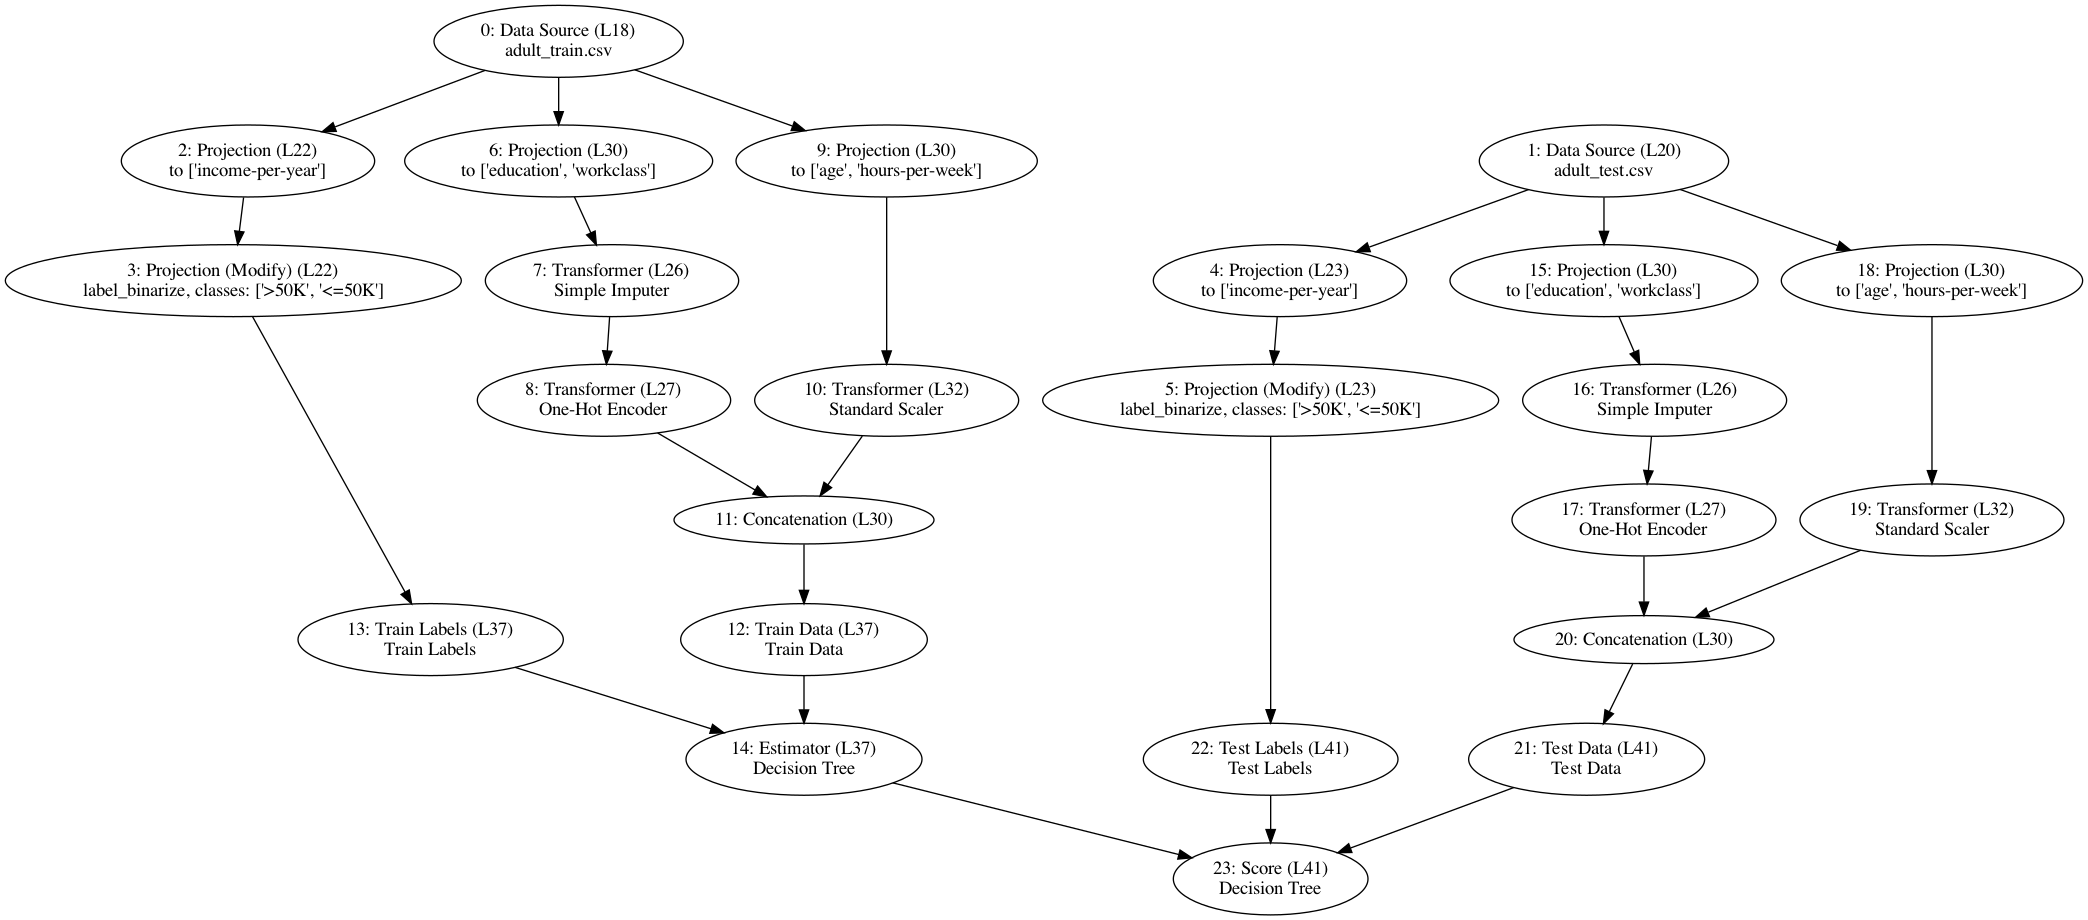
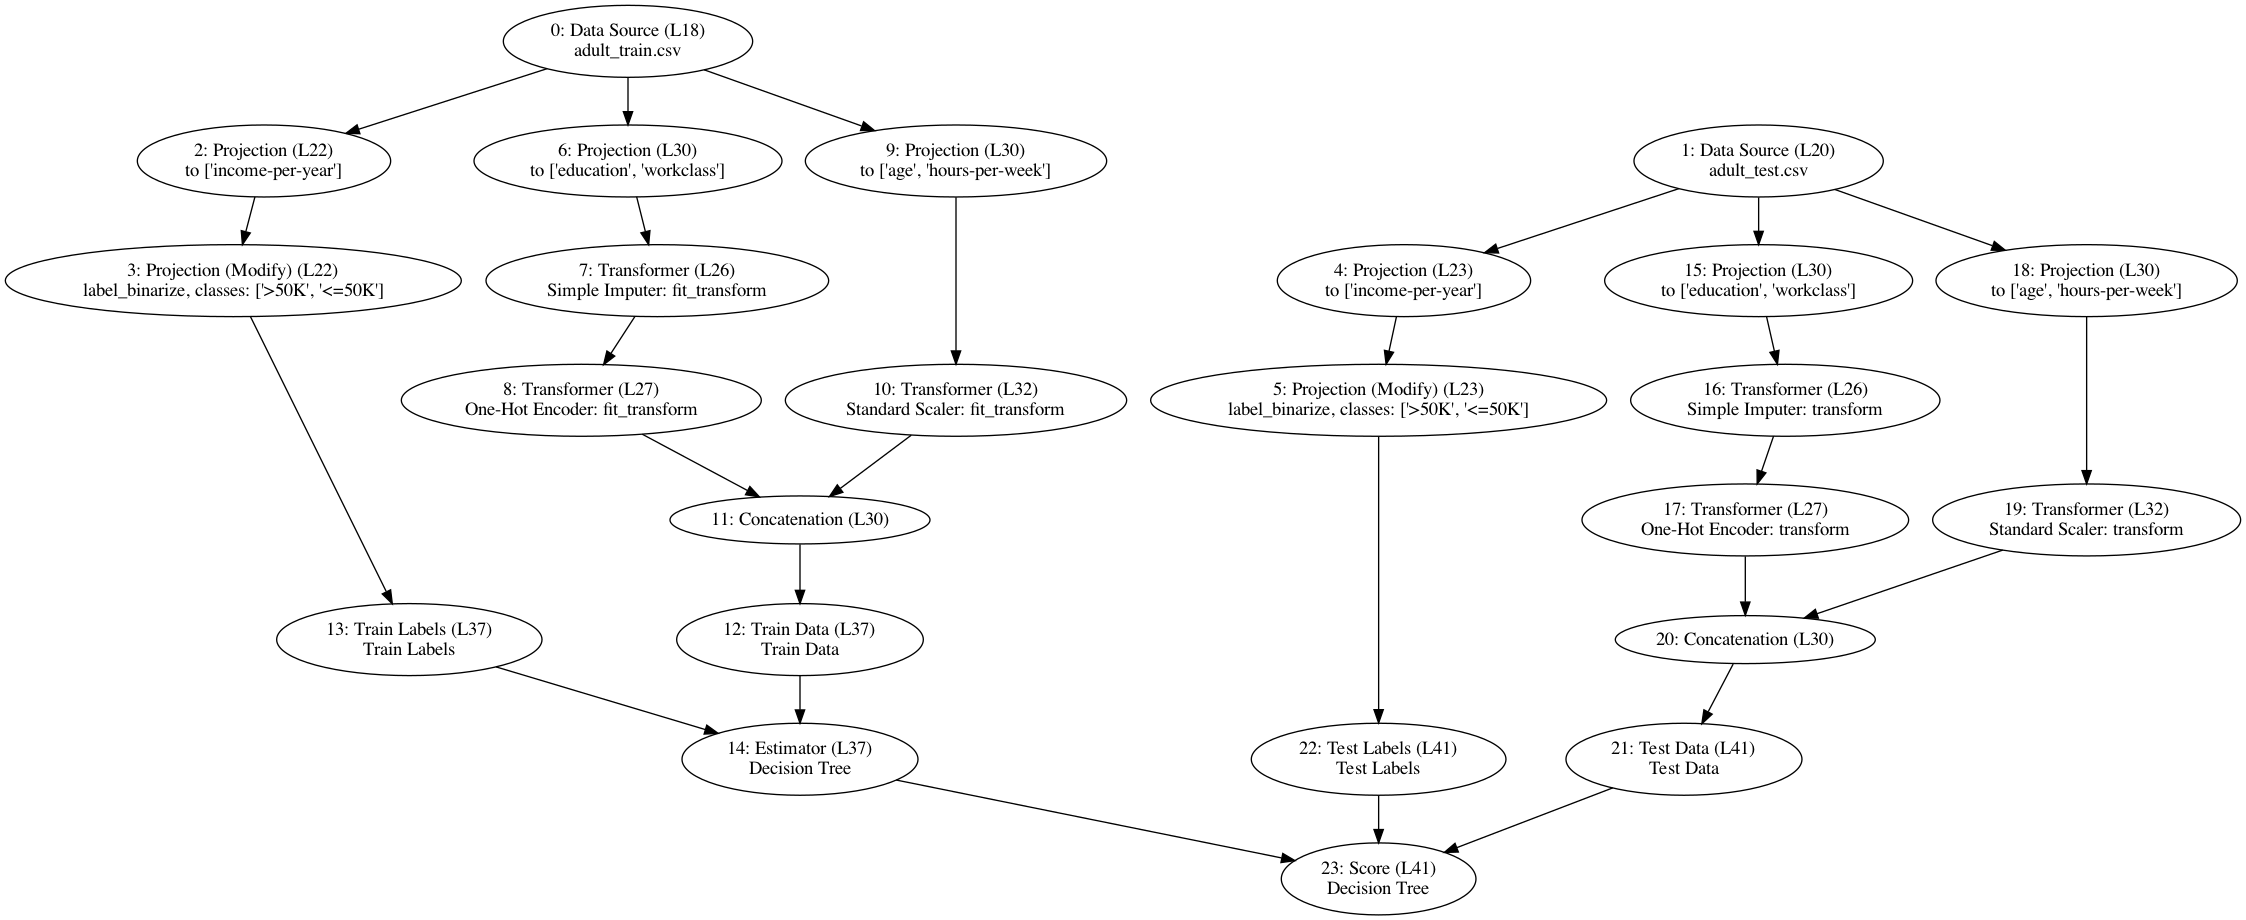
Polish

diff --git a/mlinspect/monkeypatching/_patch_statsmodels.py b/mlinspect/monkeypatching/_patch_statsmodels.py
@@ -9,16 +9,15 @@ from mlinspect import DagNode, BasicCodeLocation, DagNodeDetails
 from mlinspect.backends._pandas_backend import PandasBackend
 from mlinspect.backends._sklearn_backend import SklearnBackend
 from mlinspect.inspections._inspection_input import OperatorContext, FunctionInfo, OperatorType
-from mlinspect.instrumentation import _pipeline_executor
 from mlinspect.instrumentation._pipeline_executor import singleton
 from mlinspect.monkeypatching._monkey_patching_utils import execute_patched_func, add_dag_node, \
-    get_optional_code_info_or_none, get_input_info, execute_patched_func_no_op_id
+    get_optional_code_info_or_none, get_input_info, execute_patched_func_no_op_id, add_train_data_node, \
+    add_train_label_node
 
 
 @gorilla.patches(api)
 class StatsmodelApiPatching:
-    """ Patches for sklearn """
-
+    """ Patches for statsmodel """
     # pylint: disable=too-few-public-methods
 
     @gorilla.name('add_constant')
@@ -121,42 +120,13 @@ class StatsmodelsOlsPatching:
         function_info = FunctionInfo('statsmodel.api.OLS', 'fit')
 
         # Train data
-        input_info_train_data = get_input_info(self.data.exog,  # pylint: disable=no-member
-                                               self.mlinspect_caller_filename, self.mlinspect_lineno,
-                                               function_info, self.mlinspect_optional_code_reference,
-                                               self.mlinspect_optional_source_code)
-        train_data_op_id = _pipeline_executor.singleton.get_next_op_id()
-        operator_context = OperatorContext(OperatorType.TRAIN_DATA, function_info)
-        train_data_dag_node = DagNode(train_data_op_id,
-                                      BasicCodeLocation(self.mlinspect_caller_filename, self.mlinspect_lineno),
-                                      operator_context,
-                                      DagNodeDetails("Train Data", ["array"]),
-                                      get_optional_code_info_or_none(self.mlinspect_optional_code_reference,
-                                                                     self.mlinspect_optional_source_code))
-        input_infos = SklearnBackend.before_call(operator_context, [input_info_train_data.annotated_dfobject])
-        data_backend_result = SklearnBackend.after_call(operator_context,
-                                                        input_infos,
-                                                        self.data.exog)  # pylint: disable=no-member
-        add_dag_node(train_data_dag_node, [input_info_train_data.dag_node], data_backend_result)
-
-        # Train labels
-        operator_context = OperatorContext(OperatorType.TRAIN_LABELS, function_info)
-        input_info_train_labels = get_input_info(self.data.endog,  # pylint: disable=no-member
-                                                 self.mlinspect_caller_filename, self.mlinspect_lineno,
-                                                 function_info, self.mlinspect_optional_code_reference,
-                                                 self.mlinspect_optional_source_code)
-        train_label_op_id = _pipeline_executor.singleton.get_next_op_id()
-        train_labels_dag_node = DagNode(train_label_op_id,
-                                        BasicCodeLocation(self.mlinspect_caller_filename, self.mlinspect_lineno),
-                                        operator_context,
-                                        DagNodeDetails("Train Labels", ["array"]),
-                                        get_optional_code_info_or_none(self.mlinspect_optional_code_reference,
-                                                                       self.mlinspect_optional_source_code))
-        input_infos = SklearnBackend.before_call(operator_context, [input_info_train_labels.annotated_dfobject])
-        label_backend_result = SklearnBackend.after_call(operator_context,
-                                                         input_infos,
-                                                         self.data.endog)  # pylint: disable=no-member
-        add_dag_node(train_labels_dag_node, [input_info_train_labels.dag_node], label_backend_result)
+        # pylint: disable=no-member
+        data_backend_result, train_data_node, train_data_result = add_train_data_node(self,
+                                                                                      self.data.exog,
+                                                                                      function_info)
+        # pylint: disable=no-member
+        label_backend_result, train_labels_node, train_labels_result = add_train_label_node(self, self.data.endog,
+                                                                                            function_info)
 
         # Estimator
         operator_context = OperatorContext(OperatorType.ESTIMATOR, function_info)
@@ -173,5 +143,5 @@ class StatsmodelsOlsPatching:
                            DagNodeDetails("Decision Tree", []),
                            get_optional_code_info_or_none(self.mlinspect_optional_code_reference,
                                                           self.mlinspect_optional_source_code))
-        add_dag_node(dag_node, [train_data_dag_node, train_labels_dag_node], estimator_backend_result)
+        add_dag_node(dag_node, [train_data_node, train_labels_node], estimator_backend_result)
         return result

diff --git a/mlinspect/testing/_testing_helper_utils.py b/mlinspect/testing/_testing_helper_utils.py
@@ -88,7 +88,7 @@ def get_expected_dag_adult_easy(caller_filename: str, line_offset: int = 0, with
                                                 OperatorContext(OperatorType.TRANSFORMER,
                                                                 FunctionInfo('sklearn.preprocessing._encoders',
                                                                              'OneHotEncoder')),
-                                                DagNodeDetails('One-Hot Encoder', ['array']),
+                                                DagNodeDetails('One-Hot Encoder: fit_transform', ['array']),
                                                 OptionalCodeInfo(CodeReference(19 + line_offset, 20, 19 + line_offset,
                                                                                72),
                                                                  "preprocessing.OneHotEncoder(handle_unknown='ignore')")
@@ -98,7 +98,7 @@ def get_expected_dag_adult_easy(caller_filename: str, line_offset: int = 0, with
                                                 OperatorContext(OperatorType.TRANSFORMER,
                                                                 FunctionInfo('sklearn.preprocessing._data',
                                                                              'StandardScaler')),
-                                                DagNodeDetails('Standard Scaler', ['array']),
+                                                DagNodeDetails('Standard Scaler: fit_transform', ['array']),
                                                 OptionalCodeInfo(CodeReference(20 + line_offset, 16, 20 + line_offset,
                                                                                46),
                                                                  'preprocessing.StandardScaler()'))

diff --git a/test/demo/feature_overview/test_no_missing_embeddings.py b/test/demo/feature_overview/test_no_missing_embeddings.py
@@ -40,7 +40,7 @@ def test_no_missing_embeddings():
                 BasicCodeLocation('<string-source>', 5),
                 OperatorContext(OperatorType.TRANSFORMER,
                                 FunctionInfo('example_pipelines.healthcare.healthcare_utils', 'MyW2VTransformer')),
-                DagNodeDetails('Word2Vec', ['array']),
+                DagNodeDetails('Word2Vec: fit_transform', ['array']),
                 OptionalCodeInfo(CodeReference(5, 14, 5, 62), 'MyW2VTransformer(min_count=2, size=2, workers=1)'))
         : MissingEmbeddingsInfo(2, ['cat_b', 'cat_c'])}
     expected_result = NoMissingEmbeddingsResult(NoMissingEmbeddings(10), CheckStatus.FAILURE,

diff --git a/test/checks/test_no_bias_introduced_for.py b/test/checks/test_no_bias_introduced_for.py
@@ -91,7 +91,7 @@ def get_expected_check_result_simple_imputer():
                                BasicCodeLocation('<string-source>', 6),
                                OperatorContext(OperatorType.TRANSFORMER,
                                                FunctionInfo('sklearn.impute._base', 'SimpleImputer')),
-                               DagNodeDetails('Simple Imputer', ['A']),
+                               DagNodeDetails('Simple Imputer: fit_transform', ['A']),
                                OptionalCodeInfo(CodeReference(6, 10, 6, 72),
                                                 "SimpleImputer(missing_values=np.nan, strategy='most_frequent')"))
 

diff --git a/test/checks/test_similar_removal_probablities_for.py b/test/checks/test_similar_removal_probablities_for.py
@@ -130,7 +130,7 @@ def get_expected_check_result_simple_imputer():
                        BasicCodeLocation('<string-source>', 6),
                        OperatorContext(OperatorType.TRANSFORMER,
                                        FunctionInfo('sklearn.impute._base', 'SimpleImputer')),
-                       DagNodeDetails('Simple Imputer', ['A']),
+                       DagNodeDetails('Simple Imputer: fit_transform', ['A']),
                        OptionalCodeInfo(CodeReference(6, 10, 6, 72),
                                         "SimpleImputer(missing_values=np.nan, strategy='most_frequent')"))
 

diff --git a/mlinspect/monkeypatching/README.md b/mlinspect/monkeypatching/README.md
@@ -67,17 +67,19 @@ compare(networkx.to_dict_of_dicts(extracted_dag), networkx.to_dict_of_dicts(expe
 
 | Function Call        | Operator        
 | ------------- |:-------------:|
-| `('sklearn.compose._column_transformer', 'ColumnTransformer')`, column selection      | Projection | 
-| `('sklearn.compose._column_transformer', 'ColumnTransformer')`, concatenation      | Concatenation      | 
+| `('sklearn.compose._column_transformer', 'ColumnTransformer')`, column selection      | Projection |
+| `('sklearn.preprocessing._label', 'label_binarize')` | Projection (Mod)      |
+| `('sklearn.compose._column_transformer', 'ColumnTransformer')`, concatenation      | Concatenation      |
+| `('sklearn.model_selection._split', 'train_test_split')` | Split (Train/Test) 
 | `('sklearn.preprocessing._encoders', 'OneHotEncoder')`, arg type: strings | Transformer |
 | `('sklearn.preprocessing._data', 'StandardScaler')` | Transformer      |
 | `('sklearn.impute._base’, 'SimpleImputer')` | Transformer      |
 | `('sklearn.preprocessing._discretization', 'KBinsDiscretizer')` | Transformer      |
 | `('sklearn.tree._classes', 'DecisionTreeClassifier')` | Estimator      |
+| `('sklearn.linear_model._stochastic_gradient', 'SGDClassifier')` | Estimator      |
 | `('tensorflow.python.keras.wrappers.scikit_learn', 'KerasClassifier')` | Estimator      |
 | `('sklearn.linear_model._logistic', 'LogisticRegression')` | Estimator      |
-| `('sklearn.model_selection._split', 'train_test_split')` | Split (Train/Test)      |
-| `('sklearn.preprocessing._label', 'label_binarize')` | Projection (Mod)      |
+
 
 ## Numpy 
 * The implementation can be found mainly [here](./_patch_numpy.py)
@@ -97,4 +99,4 @@ compare(networkx.to_dict_of_dicts(extracted_dag), networkx.to_dict_of_dicts(expe
 | ------------- |:-------------:|
 | `('statsmodels.datasets', 'get_rdataset')`      | Data Source | 
 | `('statsmodels.api', 'add_constant')`      | Projection (Mod) | 
-| `('statsmodel.api.OLS', 'fit')`, numpy syntax      | Estimator | 
+| `('statsmodel.api', 'OLS')`, numpy syntax      | Estimator | 
